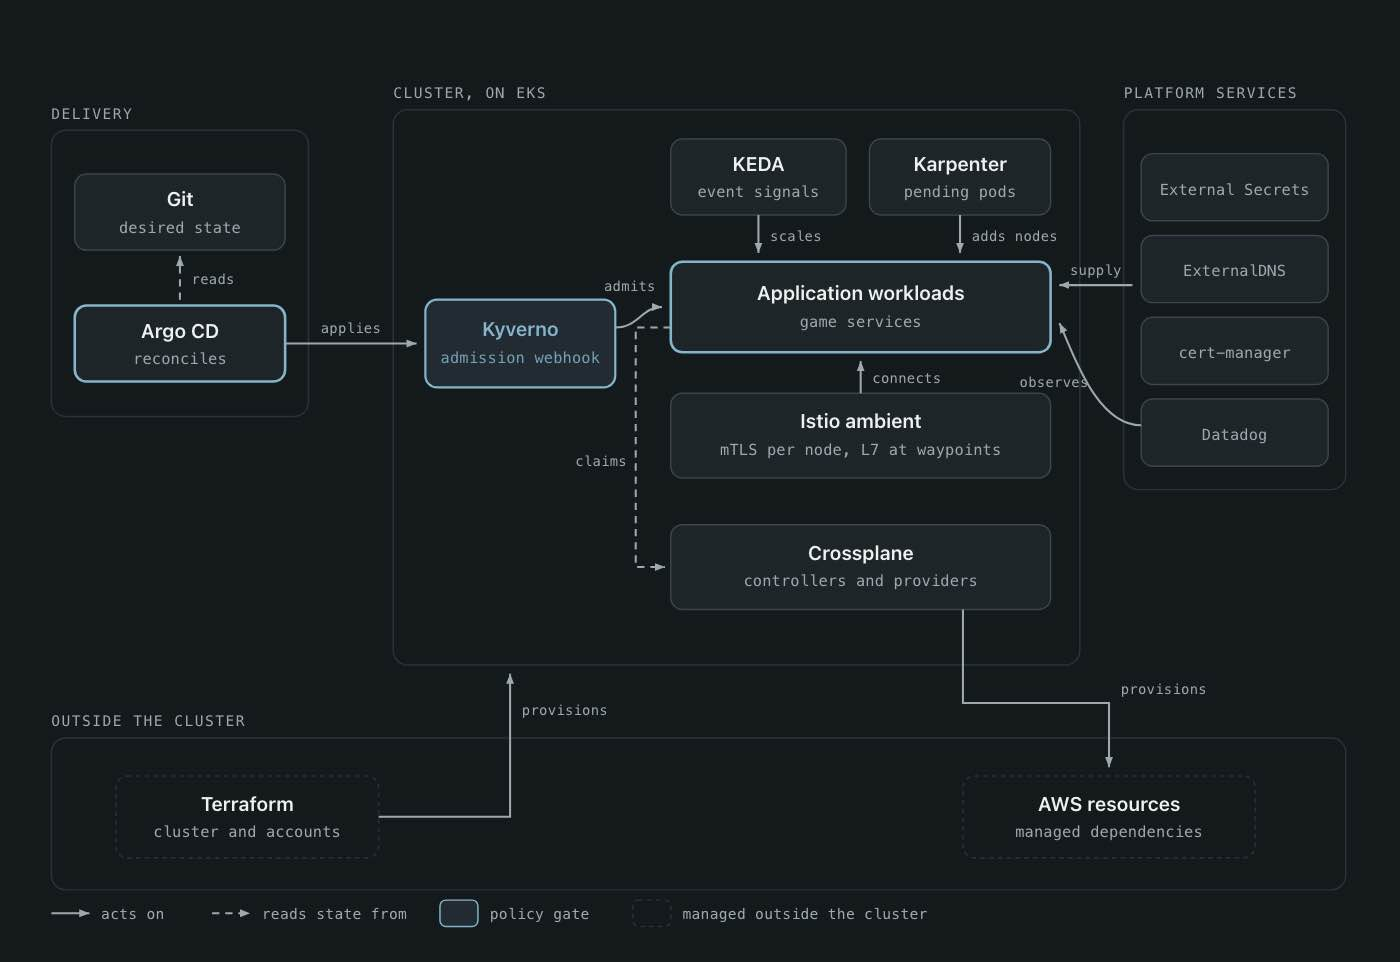
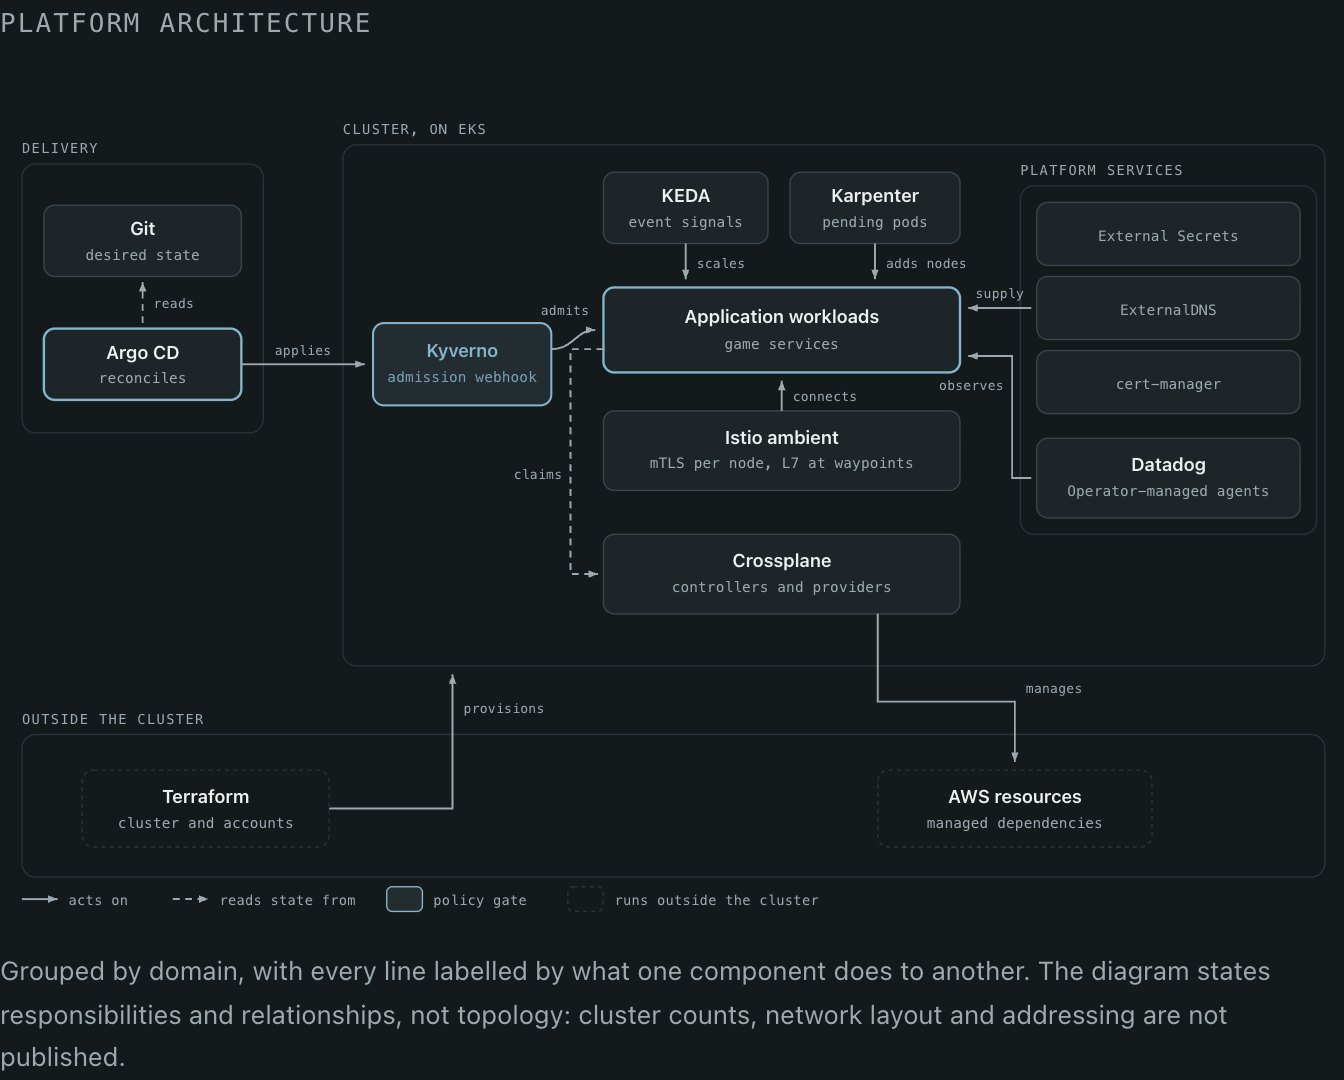
fix: draw platform services inside the cluster
The Platform Services group sat outside the cluster boundary, which said
External Secrets, ExternalDNS, cert-manager and the Datadog agents run
off-cluster. They are in-cluster controllers that talk to services
outside. Group boxes are now deployment boundaries: platform services
nest inside the EKS box, Terraform and the AWS resources Crossplane
manages stay out.

Mobile had the same error plus a false edge, "provisioned by and claimed
through", conflating Terraform provisioning with Crossplane claims. New
`+[Group]` nested-card form in the architecture shortcode puts platform
services inside the cluster stage; Terraform is an aside, Crossplane
claims is the chain edge.

Datadog node names the Operator, since it manages the agents' deployment
and config while the agents collect. Crossplane edge reads "manages" for
ongoing reconciliation, distinct from Terraform's "provisions".

Copy: drop the rhetorical setup in the support rotation and AWS cost
pieces, drop the generic "worth asking" conclusion, fix an orphaned
sentence fragment on the About page, and cut the claim of running DevOps
Engineering for three years. Career timeline unchanged until the
employment end date is confirmed.

diagram-system.css called the SVG decorative and aria-hidden; it has
been focusable with per-node aria-labels since the SVG rewrite. README
still documented the retired `flow` shortcode.

diff --git a/assets/css/diagram-system.css b/assets/css/diagram-system.css
@@ -1,10 +1,19 @@
 /* ==========================================================================
    Architecture diagram system
 
-   Inline SVG for the drawing, HTML for the content. The SVG is aria-hidden
-   and decorative; the HTML description below it is the accessible
-   representation and is also the mobile layout, so a phone gets a readable
-   structure instead of a scaled-down picture of one.
+   Inline SVG for the drawing, HTML for the content. Three representations,
+   and exactly one is in the accessibility tree at a time:
+
+     >= 60rem   the SVG. Not decorative and not aria-hidden: it is a labelled
+                group whose nodes are focusable and carry aria-labels naming
+                their connections, which is what gives a keyboard user the
+                same emphasis a mouse gets.
+     <  60rem   the grouped cards (.amob), as real text that reflows, so a
+                phone gets a readable structure instead of a scaled-down
+                picture of one. The SVG is display:none there.
+     always     the text alternative (.arch__alt), sr-only, holding the
+                detail neither visual form carries. It leaves the tree above
+                the breakpoint, where the SVG is already the description.
 
    Every colour, font and space below resolves to an existing site token. The
    SVGs carry no presentation attributes, so a theme change restyles them.
@@ -72,13 +81,34 @@
   padding: var(--space-3) var(--space-4);
 }
 
-/* A control that is not a stage in the sequence: dashed, and offset so it
-   reads as attached to the side rather than part of the chain. */
+/* Something that is not a stage in the sequence, such as a control or a
+   component that acts from outside it: dashed, and offset so it reads as
+   attached to the side rather than part of the chain. */
 .amob__card--aside {
   border-style: dashed;
   border-color: var(--accent);
   background: var(--accent-soft);
   margin-left: var(--space-5);
+}
+
+/* A group that runs inside the stage above it. Indented off the chain, and
+   the chain's rule runs unbroken past its left edge, so the next connector
+   reads as leaving that stage and not this card. */
+.amob__card--nested {
+  position: relative;
+  margin: var(--space-3) 0 0 var(--space-5);
+}
+
+.amob__card--nested::before {
+  content: "";
+  position: absolute;
+  /* Minus the card's own border, so this lands on the same pixel column as
+     the connector rule above and below it. */
+  left: calc(var(--space-3) - var(--space-5) - 1px);
+  top: calc(var(--space-3) * -1);
+  bottom: calc(var(--space-3) * -1);
+  width: 1px;
+  background: var(--border-strong);
 }
 
 .amob__group {

diff --git a/layouts/_shortcodes/architecture.html b/layouts/_shortcodes/architecture.html
@@ -14,8 +14,10 @@
 
      Mobile syntax, one line each:
        [Group name] Chip, Chip*, Chip      a group card; * emphasises a chip
+       +[Group name] Chip, Chip            a group card nested in the one above
        -> verb                             a labelled connector to the next card
-       !! Note :: detail                   a control that is not in the sequence
+       !! Note :: detail                   something attached to the side of the
+                                           sequence, not a stage in it
 
      Three representations, one per context, and exactly one of them is in the
      accessibility tree at a time:
@@ -54,11 +56,15 @@
   <div class="amob" aria-hidden="true">
     {{- range split (trim $spec "\n ") "\n" }}
     {{- $line := trim . " \t" }}
+    {{/* A leading + means this group runs inside the group above it, rather
+         than after it: the chain continues past an indented card. */}}
+    {{- $nested := hasPrefix $line "+[" }}
+    {{- if $nested }}{{ $line = trim (strings.TrimPrefix "+" $line) " " }}{{ end }}
     {{- if hasPrefix $line "[" }}
       {{- $close := index (findRE `^\[[^\]]*\]` $line) 0 }}
       {{- $group := trim (trim $close "[]") " " }}
       {{- $rest := trim (strings.TrimPrefix $close $line) " " }}
-    <div class="amob__card">
+    <div class="amob__card{{ if $nested }} amob__card--nested{{ end }}">
       <p class="amob__group mono">{{ $group }}</p>
       <ul class="amob__chips">
         {{- range split $rest "," }}

diff --git a/content/work/kubernetes-platform-architecture.md b/content/work/kubernetes-platform-architecture.md
@@ -48,21 +48,22 @@ think about.
 {{< architecture svg="kubernetes-platform" label="Platform architecture" caption="Grouped by domain, with every line labelled by what one component does to another. The diagram states responsibilities and relationships, not topology: cluster counts, network layout and addressing are not published." >}}
 [Delivery] Git, Argo CD*
 -> applies, through admission
-[Cluster, on EKS] Kyverno*, Application workloads*, Istio ambient, KEDA, Karpenter, Crossplane
--> supply and observe
-[Platform services] External Secrets, ExternalDNS, cert-manager, Datadog
--> provisioned by and claimed through
-[Outside the cluster] Terraform, AWS resources
+[Cluster, on EKS] Kyverno*, Application workloads*, Istio ambient, KEDA, Karpenter, Crossplane*
++[Platform services, in the cluster] External Secrets, ExternalDNS, cert-manager, Datadog (Operator-managed agents)
+-> workloads claim, Crossplane manages
+[Outside the cluster] AWS resources
+!! Terraform :: Runs outside the cluster and provisions the cluster itself and the AWS accounts underneath it. Not something a request passes through.
 ---
 Argo CD reads desired state from Git and applies manifests through Kyverno, which runs
 in the cluster as an admission webhook and either admits a workload or denies it.
-Inside the cluster, KEDA scales workloads on queue depth and event rate, Karpenter adds
-nodes for pods that are pending, and Istio in ambient mode connects the workloads with
-mTLS and L4 policy per node and L7 at waypoint proxies. External Secrets, ExternalDNS
-and cert-manager supply secrets, DNS records and certificates to the workloads, and
-Datadog observes them. Crossplane also runs in the cluster: workloads claim managed
-dependencies through it, and its providers provision the AWS resources outside the
-cluster. Terraform provisions the cluster itself and the accounts underneath it.
+KEDA scales workloads on queue depth and event rate, Karpenter adds nodes for pods that
+are pending, and Istio in ambient mode connects the workloads with mTLS and L4 policy
+per node and L7 at waypoint proxies. The platform services run in the cluster too:
+External Secrets, ExternalDNS and cert-manager supply secrets, DNS records and
+certificates to the workloads, and Datadog's Operator-managed agents observe them.
+Crossplane runs in the cluster as well, and workloads claim managed dependencies through
+it; its providers manage the AWS resources outside the cluster. Terraform runs outside
+and provisions the cluster itself and the accounts underneath it.
 {{< /architecture >}}
 
 Delivery runs through GitOps. ArgoCD reconciles cluster state from Git, so the cluster's

diff --git a/README.md b/README.md
@@ -80,12 +80,12 @@ as `article:published_time` as though it were a publication date. Articles in
 
 ### Architecture diagrams
 
-Two shortcodes, both rendering semantic HTML rather than an SVG or an image, so they
-reflow at 390px, follow the theme tokens, stay selectable and searchable, and are read in
-document order by a screen reader with no separate text alternative to maintain.
+Two shortcodes. Both follow the theme tokens, so a theme change restyles them, and both
+state responsibilities and relationships rather than topology.
 
 `stack` is a layer diagram: what each layer is responsible for and which component does
-it. It states responsibilities, not topology.
+it. One row per line, fields separated by `::`. Semantic HTML throughout, so it reflows
+at 390px and stays selectable.
 
 ```
 {{< stack label="Platform layers" caption="Optional, markdown allowed." >}}
@@ -94,19 +94,25 @@ Compute :: Managed Kubernetes :: EKS
 {{< /stack >}}
 ```
 
-`flow` is a sequence: how a request moves through a system and where it is stopped.
+`architecture` draws a component diagram. It has three representations and puts exactly
+one of them in the accessibility tree at a time: the inline SVG from
+`assets/diagrams/<name>.svg` at 60rem and above, whose nodes are focusable and carry
+aria-labels naming their connections; grouped cards below that, as real text that
+reflows; and an sr-only text alternative, always present, for the detail neither visual
+form carries. `assets/css/diagram-system.css` holds the shared SVG vocabulary, and the
+shortcode's own header comment documents the card syntax.
 
 ```
-{{< flow label="One provisioning request" caption="Optional." >}}
-Request :: Arrives in Slack as prose
-gate: Human approval :: It proposes; a person approves
-Service :: Baseline deployed on EKS
-{{< /flow >}}
+{{< architecture svg="infrastructure-agent" label="One request" caption="Optional." >}}
+[Request] Slack
+-> prose request
+[Orchestration] LangGraph*
++[Nested group] Runs inside the group above
+!! Secret redaction :: Not a stage a request passes through.
+---
+The text alternative, below the `---` line.
+{{< /architecture >}}
 ```
-
-One row per line, fields separated by `::`. A row prefixed `gate:` renders as a boundary
-instead of a numbered step, so the numbering counts work and not checkpoints, and the
-place a request gets refused is the thing that stands out.
 
 For both: only the lines you write become content. Add a diagram only when the underlying
 details are verified, and say in the caption what the diagram deliberately leaves out.

diff --git a/content/about.md b/content/about.md
@@ -13,12 +13,11 @@ decade.
 
 ## Leading the function
 
-At Fortis Games I built DevOps Engineering from nothing and ran it for the three years I
-was there. By the end it was ten engineers through four area leaders, one each for
-CI/CD, SRE, platform and AI infrastructure, and I kept platform architecture and
-technical direction alongside that. The team was spread across Brazil, Portugal, England
-and Canada, an eight-hour spread, so almost nothing could depend on everyone being awake
-at once.
+At Fortis Games, I built and led DevOps Engineering while retaining responsibility for
+platform architecture and technical direction. By the end it was ten engineers through
+four area leaders, one each for CI/CD, SRE, platform and AI infrastructure. The team was
+spread across Brazil, Portugal, England and Canada, an eight-hour spread, so almost
+nothing could depend on everyone being awake at once.
 
 That constraint shaped how I lead. I wrote the RFC and ADR process so decisions got argued
 in writing and stayed findable afterwards. I wrote the service ownership model that set out
@@ -58,8 +57,8 @@ I'd give engineers context and guardrails before I'd give them answers. Earlier 
 career I went deep enough on problems that I became part of the critical path, and the
 decision processes I've built since are partly a correction for that.
 
-Cost, latency, throughput, and the time it takes to get from a request to a running
-environment.
+I focus on cost, latency, throughput, and the time it takes to get from a request to a
+running environment.
 
 ## Outside work
 

diff --git a/content/work/aws-multi-account-cost-attribution.md b/content/work/aws-multi-account-cost-attribution.md
@@ -56,9 +56,9 @@ Shared compute uses a landlord-and-tenant split, built on Datadog container cost
 allocation. Tenants are charged for the pod resources they request. Idle capacity is
 charged to my own team.
 
-That last part is the bit worth copying. Socialise unused capacity across tenants and
-nobody owns bin-packing efficiency, so it degrades without anyone noticing. Charging it to
-the platform team puts the bill with the team that can act on it.
+Socialise unused capacity across tenants and nobody owns bin-packing efficiency, so it
+degrades without anyone noticing. Charging it to the platform team puts the bill with the
+team that can act on it.
 
 ## Trade-offs
 
@@ -75,7 +75,6 @@ security boundary, and that was a separate conversation.
 
 Attribution survived the consolidation, enforced at admission.
 
-The lesson is that an account structure carries meaning nobody wrote down. Before
-collapsing a boundary it's worth asking what work that boundary has quietly been doing.
-Billing isolation was never why those 38 accounts existed, and it was still load-bearing by
-the time anyone looked.
+We hadn't documented all the functions those account boundaries served. Billing isolation
+was never why the 38 accounts existed, and it was still load-bearing by the time anyone
+looked.

diff --git a/content/work/support-engineering-rotation.md b/content/work/support-engineering-rotation.md
@@ -108,11 +108,10 @@ and not an attempt to reconstruct it.
 
 Nine engineers get a week where interrupts are somebody else's job.
 
-The second effect wasn't something I designed for, and it's the one I'd point at now. Every
-engineer passes through every area, roughly a week in ten. The SRE specialist spends a
-week merging CI/CD dependency upgrades. The CI/CD specialist spends a week inside Argo CD
-sync failures. Nobody can route an area's questions permanently to the person who owns that
-area, because within a couple of months they'll be answering them.
+Every engineer also passes through every area, roughly a week in ten. The SRE specialist
+spends a week merging CI/CD dependency upgrades. The CI/CD specialist spends a week inside
+Argo CD sync failures. Nobody can route an area's questions permanently to the person who
+owns that area, because within a couple of months they'll be answering them.
 
 It moved more knowledge between areas than the documentation work I ran, because it put
 people inside areas they wouldn't have picked.
